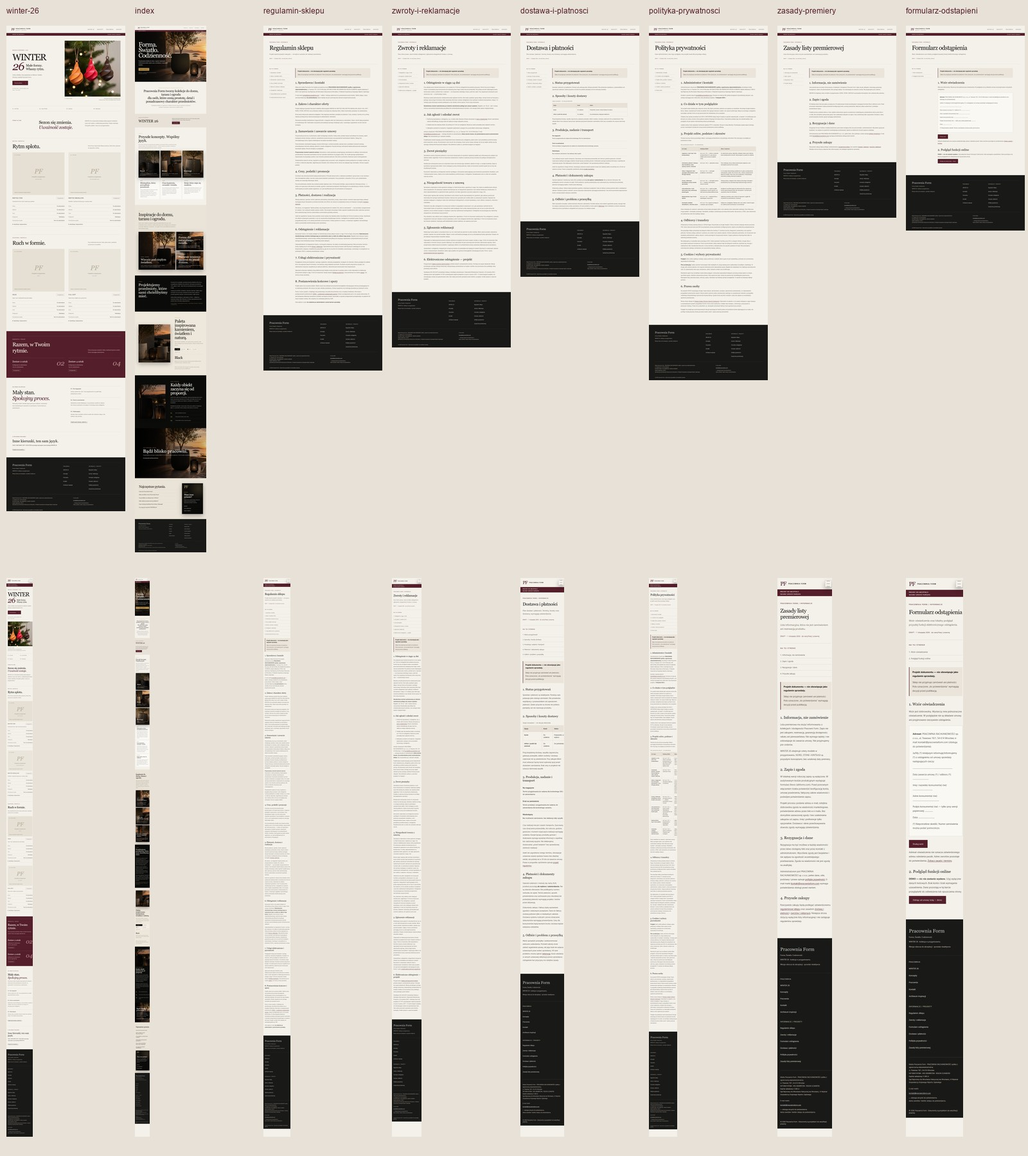
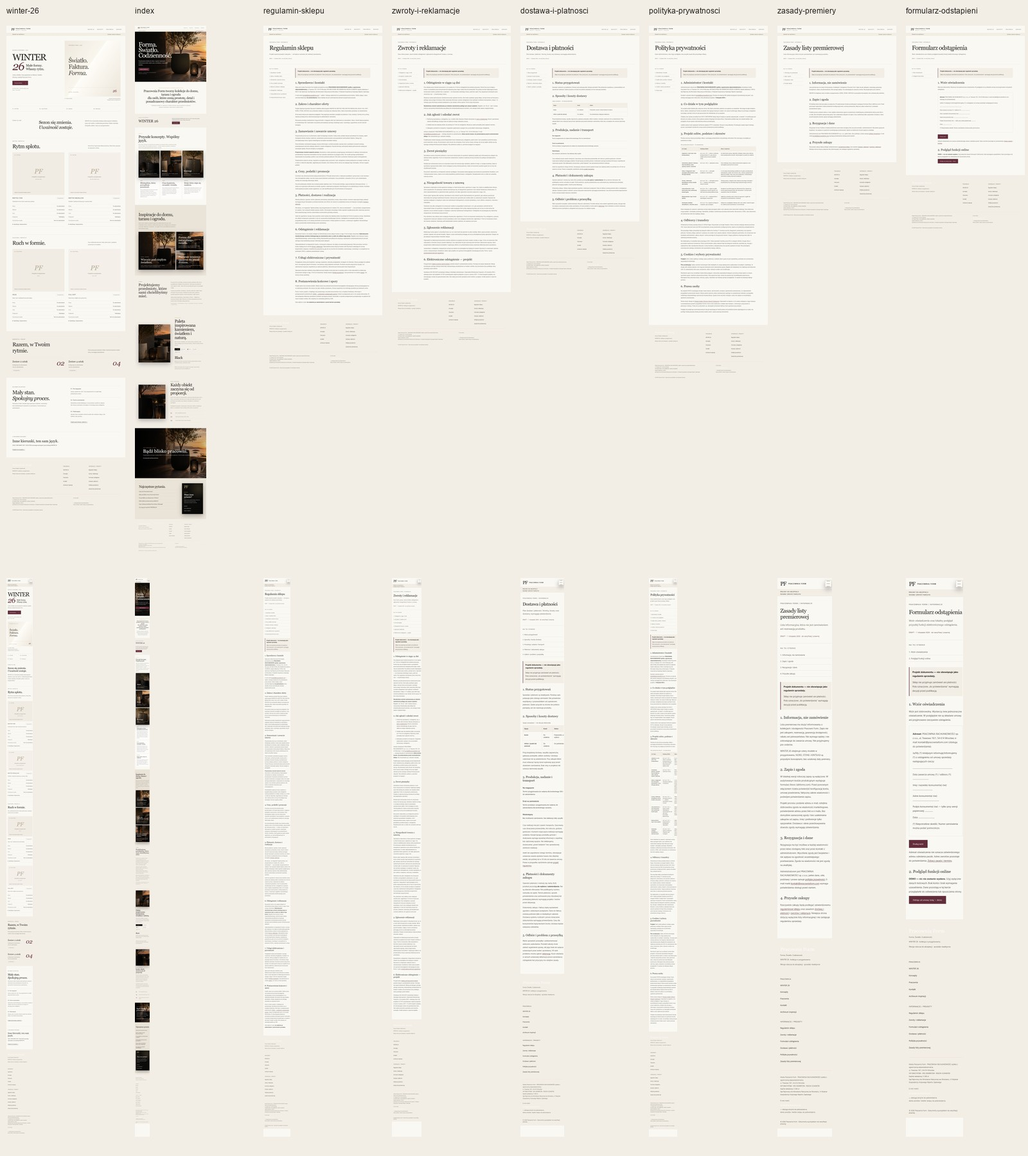
style: adopt Warm Minimal palette and neutral product-free hero

diff --git a/review.css b/review.css
@@ -1,4 +1,4 @@
-:root { --burgundy: #541e2a; --paper: #f4f1ea; --rule: #cfc8bd; }
+:root { --burgundy: #632d3b; --paper: #faf8f3; --cream: #faf8f3; --ink: #25231f; --surface: #f2eee6; --muted: #625d54; --rule: #dcd6cc; }
 [hidden] { display: none !important; }
 .skip-link { position: fixed; top: -120px; left: 20px; z-index: 200; padding: 15px 24px; background: var(--paper); color: var(--ink); }
 .skip-link:focus { top: 12px; }
@@ -9,27 +9,27 @@ body { overflow-wrap: break-word; }
 html.js .reveal { opacity: 1; transform: none; }
 .site-header { position: relative; height: 88px; color: var(--ink); background: var(--paper); border-bottom: 1px solid var(--rule); backdrop-filter: none; }
 .site-header.scrolled { height: 88px; background: var(--paper); }
-.brand-mark { color: var(--burgundy); }
+.brand-mark { color: var(--ink); }
 .brand-text small { color: #645e54; }
 .site-nav a { min-height: 44px; display: inline-flex; align-items: center; }
-.review-banner { background: var(--burgundy); color: #fffaf1; padding: 9px 5%; font-size: 10px; font-weight: 600; letter-spacing: .13em; display: flex; justify-content: space-between; gap: 12px; }
+.review-banner { background: var(--surface); color: var(--ink); box-shadow: inset 0 -1px 0 var(--rule); padding: 9px 5%; font-size: 10px; font-weight: 600; letter-spacing: .13em; display: flex; justify-content: space-between; gap: 12px; }
 .review-banner span { font-weight: 400; letter-spacing: .05em; }
 .shell { width: min(1320px, 90%); margin-inline: auto; }
-.winter-page .eyebrow, .document-page .eyebrow, .home-winter .eyebrow { color: var(--burgundy); font-size: 11px; letter-spacing: .15em; font-weight: 600; text-transform: uppercase; }
+.winter-page .eyebrow, .document-page .eyebrow, .home-winter .eyebrow { color: var(--muted); font-size: 11px; letter-spacing: .15em; font-weight: 600; text-transform: uppercase; }
 .editorial-button { display: inline-flex; justify-content: space-between; align-items: center; gap: 36px; padding: 17px 25px; border: 1px solid var(--burgundy); background: var(--burgundy); color: #fffaf1; font: 12px var(--sans); letter-spacing: .05em; cursor: pointer; min-height: 48px; }
 .editorial-button:hover { background: #39131c; }
 .secondary-button { background: transparent; color: var(--burgundy); border: 1px solid var(--burgundy); padding: 15px 22px; font: 14px var(--sans); cursor: pointer; min-height: 48px; }
 .text-link { text-decoration: underline; text-underline-offset: 5px; display: inline-block; padding-block: 12px; }
-.review-footer { padding: 64px 5% 26px; background: #191a17; color: var(--paper); display: grid; grid-template-columns: 1fr 1.25fr; gap: 36px 60px; }
+.review-footer { padding: 64px 5% 26px; background: var(--surface); color: var(--ink); display: grid; grid-template-columns: 1fr 1.25fr; gap: 36px 60px; }
 .review-footer .footer-wordmark { font: 32px var(--serif); display: block; }
-.footer-wordmark span { display: block; font: 12px var(--sans); color: #c4bfb4; margin-top: 14px; }
-.review-footer .footer-intro p { font-size: 12px; color: #c4bfb4; line-height: 1.7; }
+.footer-wordmark span { display: block; font: 12px var(--sans); color: var(--muted); margin-top: 14px; }
+.review-footer .footer-intro p { font-size: 12px; color: var(--muted); line-height: 1.7; }
 .review-footer .footer-cols { display: grid; grid-template-columns: 1fr 1.4fr; gap: 32px; margin: 0; }
-.review-footer .footer-cols h2 { font: 11px var(--sans); text-transform: uppercase; letter-spacing: .12em; margin-bottom: 18px; color: #ded6c7; }
-.review-footer .footer-cols a { display: block; padding: 8px 0; font-size: 13px; color: #d8d3c9; line-height: 1.5; }
-.company-details { grid-column: 1 / -1; padding-top: 24px; border-top: 1px solid #49483f; display: grid; grid-template-columns: 1.2fr 1fr; gap: 50px; font-size: 11px; color: #c4bfb4; line-height: 1.8; }
+.review-footer .footer-cols h2 { font: 11px var(--sans); text-transform: uppercase; letter-spacing: .12em; margin-bottom: 18px; color: var(--ink); }
+.review-footer .footer-cols a { display: block; padding: 8px 0; font-size: 13px; color: var(--ink); line-height: 1.5; }
+.company-details { grid-column: 1 / -1; padding-top: 24px; border-top: 1px solid var(--rule); display: grid; grid-template-columns: 1.2fr 1fr; gap: 50px; font-size: 11px; color: var(--muted); line-height: 1.8; }
 .company-details a { text-decoration: underline; }
-.review-footer .copyright { grid-column: 1 / -1; margin: 0; padding: 0; border: 0; font-size: 11px; color: #c4bfb4; }
+.review-footer .copyright { grid-column: 1 / -1; margin: 0; padding: 0; border: 0; font-size: 11px; color: var(--muted); }
 .document-hero { padding-block: 70px 48px; border-bottom: 1px solid var(--rule); }
 .document-hero h1 { font-size: clamp(38px, 5vw, 72px); max-width: 1050px; line-height: 1.08; margin: 22px 0; letter-spacing: -.04em; }
 .document-lead { max-width: 670px; color: #5e5b53; font-size: 17px; line-height: 1.7; }
@@ -44,13 +44,13 @@ html.js .reveal { opacity: 1; transform: none; }
 .document-content p, .document-content li { font-size: 15px; line-height: 1.85; color: #45433d; }
 .document-content li { margin-bottom: 12px; }
 .document-content a { text-decoration: underline; text-underline-offset: 3px; color: var(--burgundy); }
-.draft-note { padding: 24px 26px; border-left: 3px solid var(--burgundy); background: #eae4da; margin-bottom: 38px; font-size: 15px; line-height: 1.7; }
+.draft-note { padding: 24px 26px; border-left: 3px solid var(--burgundy); background: var(--surface); margin-bottom: 38px; font-size: 15px; line-height: 1.7; }
 .draft-note p { margin-bottom: 0; }
 .table-scroll { max-width: 100%; overflow-x: auto; }
 table { width: 100%; border-collapse: collapse; font-size: 13px; line-height: 1.6; }
 caption { text-align: left; margin-block: 12px; color: #615a50; }
 th, td { padding: 16px 12px; border: 1px solid var(--rule); text-align: left; vertical-align: top; }
-thead { background: #e8e1d7; }
+thead { background: var(--surface); }
 th { font-weight: 600; }
 .delivery-facts div { padding: 18px 0; border-bottom: 1px solid var(--rule); }
 .delivery-facts dt { font-size: 15px; font-weight: 600; }
@@ -58,15 +58,15 @@ th { font-weight: 600; }
 .withdrawal-letter { padding: 24px; border: 1px solid var(--rule); background: #faf8f2; margin-block: 24px; overflow-wrap: anywhere; }
 [data-withdrawal-demo] label { display: block; font-size: 14px; margin: 20px 0 8px; }
 [data-withdrawal-demo] input { width: 100%; max-width: 600px; border: 1px solid #938778; padding: 14px; font: 16px var(--sans); background: #fcfaf4; border-radius: 0; }
-[data-withdrawal-summary] { padding: 20px; background: #eae4da; overflow-wrap: anywhere; }
+[data-withdrawal-summary] { padding: 20px; background: var(--surface); overflow-wrap: anywhere; }
 [data-withdrawal-summary] dt { font-size: 12px; margin-top: 14px; }
 [data-withdrawal-summary] dd { margin: 5px 0 0; }
 [data-withdrawal-error] { color: #8a142f; }
 [data-withdrawal-step] button { margin: 10px 10px 0 0; }
-.home-winter { padding: 65px 5%; background: #e8e1d7; display: grid; grid-template-columns: 1fr 1fr; gap: 40px; }
+.home-winter { padding: 65px 5%; background: var(--surface); display: grid; grid-template-columns: 1fr 1fr; gap: 40px; }
 .home-winter h2 { font-size: clamp(42px, 5vw, 72px); }
 .home-winter p { line-height: 1.8; max-width: 600px; }
-.concept-notice { padding: 28px 5%; background: #e8e1d7; color: #45332f; font-size: 14px; line-height: 1.7; }
+.concept-notice { padding: 28px 5%; background: var(--surface); color: #45332f; font-size: 14px; line-height: 1.7; }
 .archive-grid { display: grid; grid-template-columns: repeat(3, minmax(0, 1fr)); gap: 30px; padding-block: 48px 80px; }
 .archive-grid img { width: 100%; height: auto; aspect-ratio: 4 / 3; object-fit: cover; }
 .archive-grid h2 { margin-top: 20px; font-size: 28px; }
@@ -120,3 +120,12 @@ html.js body.is-ready .hero-bg { animation: none; opacity: 1; transform: none; f
   .draft-note { border: 1px solid black; padding: 10px; }
   .withdrawal-letter { break-inside: avoid; }
 }
+
+/* Warm Minimal: retain the original homepage grids and photographic panels. */
+.story, .craft, .finishes { background: var(--surface); color: var(--ink); }
+.story-text, .craft-copy > p:not(.eyebrow), .craft-lines p { color: var(--muted); }
+.story .eyebrow, .craft .eyebrow, .made-in { color: var(--muted); }
+.craft-lines, .craft-lines div { border-color: var(--rule); }
+.craft-lines span { color: var(--burgundy); }
+.btn-primary { background: var(--burgundy); color: var(--paper); }
+.site-nav a::after { background: var(--burgundy); }

diff --git a/winter-26.css b/winter-26.css
@@ -1,4 +1,4 @@
-.winter-page { background: #f4f1ea; }
+.winter-page { background: var(--paper); }
 .w26-hero { display: grid; grid-template-columns: .9fr 1.1fr; gap: 6%; padding-block: 60px 64px; align-items: center; }
 .w26-hero h1 { font: clamp(70px, 7.5vw, 112px)/.9 var(--serif); letter-spacing: -.065em; margin: 28px 0; }
 .w26-hero h1 em { font-weight: 400; color: var(--burgundy); font-size: 1.25em; }
@@ -7,23 +7,30 @@
 .w26-hero .editorial-button { margin: 12px 0 20px; }
 .w26-hero-copy > .hero-caption { font-size: 10px !important; letter-spacing: .08em; line-height: 2 !important; }
 .w26-hero-art { margin: 0; }
-.w26-hero-art img { width: 100%; height: auto; aspect-ratio: 1 / 1; object-fit: cover; }
+/* A typographic paper study: no product image or invented silhouette. */
+.editorial-paper { aspect-ratio: 1 / 1; position: relative; overflow: hidden; padding: 7%; display: flex; flex-direction: column; justify-content: space-between; background: linear-gradient(125deg, #eee8dd 0%, #f9f6ee 44%, #fffdf8 44.2%, #f4f0e7 75%, #ece5d9 100%); }
+.paper-edition { font-size: clamp(8px, .75vw, 11px); letter-spacing: .16em; text-transform: uppercase; color: var(--muted); }
+.paper-words { font: clamp(38px, 5vw, 76px)/1.05 var(--serif); letter-spacing: -.045em; color: #4a463e; padding-block: 20px; }
+.paper-words em { font-weight: 400; }
+.paper-baseline { display: flex; align-items: end; justify-content: space-between; border-top: 1px solid #cfc6b7; padding-top: 16px; font-size: clamp(8px, .65vw, 10px); letter-spacing: .12em; color: var(--muted); }
+.paper-baseline > span:last-child { color: var(--burgundy); font: italic clamp(27px, 3vw, 44px)/1 var(--serif); letter-spacing: -.03em; }
 .w26-hero-art figcaption { margin-top: 15px; display: flex; justify-content: space-between; gap: 20px; font-size: 10px; line-height: 1.7; color: #655d51; }
 .w26-hero-art figcaption span { max-width: 280px; text-align: right; }
 .collection-nav { display: grid; grid-template-columns: repeat(4, 1fr); border-top: 1px solid var(--rule); border-bottom: 1px solid var(--rule); }
 .collection-nav a { padding-block: 25px; font-size: 10px; letter-spacing: .12em; }
 .w26-intro { display: grid; grid-template-columns: .65fr 1.2fr 1fr; gap: 40px; align-items: start; padding-block: 100px; }
 .w26-intro h2 { font-size: clamp(35px, 3.7vw, 54px); line-height: 1.12; letter-spacing: -.035em; }
-.w26-intro h2 em { color: var(--burgundy); }
+.w26-intro h2 em { color: var(--ink); }
 .w26-intro > p:last-child { font-size: 15px; line-height: 1.85; color: #5f594f; margin-top: 0; }
 .family { padding-bottom: 100px; }
 .family-heading { display: grid; grid-template-columns: 1fr 1fr; align-items: end; gap: 60px; border-top: 1px solid var(--rule); padding-top: 28px; margin-bottom: 36px; }
 .family-heading h2 { font-size: clamp(40px, 4.6vw, 64px); line-height: 1.15; letter-spacing: -.04em; }
 .family-heading > p { max-width: 390px; justify-self: end; font-size: 14px; line-height: 1.9; color: #605b52; margin-bottom: 3px; }
 .product-grid { display: grid; grid-template-columns: repeat(2, minmax(0, 1fr)); gap: 48px; }
-.product-photo { aspect-ratio: 1.22 / 1; padding: 24px; background: #e6dfd3; display: flex; flex-direction: column; justify-content: space-between; }
-.product-card:nth-child(2) .product-photo { background: #eae5db; }
-.photo-index, .photo-caption { font-size: 10px; letter-spacing: .09em; color: #6e6558; }
+.product-photo { aspect-ratio: 1.22 / 1; padding: 24px; background: #f0ece4; display: flex; flex-direction: column; justify-content: space-between; }
+.product-card:nth-child(2) .product-photo { background: #f4f0e9; }
+.photo-index { color: var(--burgundy); }
+.photo-index, .photo-caption { font-size: 10px; letter-spacing: .09em; color: var(--muted); }
 .photo-caption { letter-spacing: .02em; }
 .photo-placeholder { text-align: center; color: #756a5c; }
 .placeholder-mark { font: italic 80px var(--serif); color: #b8ac99; display: block; }
@@ -31,7 +38,7 @@
 .photo-placeholder small { font-size: 9px; letter-spacing: .15em; }
 .product-heading { display: flex; align-items: start; justify-content: space-between; gap: 12px; margin-top: 24px; }
 .product-heading h3 { font: 18px var(--sans); letter-spacing: .025em; }
-.status-pill { display: inline-block; font-size: 9px; letter-spacing: .04em; padding: 7px 10px; border: 1px solid #bca9a5; color: var(--burgundy); white-space: nowrap; }
+.status-pill { display: inline-block; font-size: 9px; letter-spacing: .04em; padding: 7px 10px; border: 1px solid var(--rule); color: var(--muted); white-space: nowrap; }
 .product-description { font-size: 13px; color: #635c52; line-height: 1.8; }
 .product-facts { margin: 22px 0 0; }
 .product-facts > div { display: flex; justify-content: space-between; gap: 20px; border-top: 1px solid var(--rule); padding: 13px 0; font-size: 12px; }
@@ -41,18 +48,18 @@
 .product-details summary { padding: 16px 0; cursor: pointer; font-size: 12px; }
 .product-details p { font-size: 12px; color: #5b544a; line-height: 1.8; }
 .product-details a { text-decoration: underline; }
-.sets-section { background: #541e2a; color: #f7f0e4; padding-block: 60px 75px; }
-.sets-section .family-heading { border-color: #966b72; }
-.sets-section .eyebrow, .sets-section .family-heading > p { color: #e4c7c6; }
+.sets-section { background: var(--surface); color: var(--ink); padding-block: 60px 75px; }
+.sets-section .family-heading { border-color: var(--rule); }
+.sets-section .eyebrow, .sets-section .family-heading > p { color: var(--muted); }
 .sets-grid { display: grid; grid-template-columns: 1fr 1fr; gap: 48px; margin-top: 50px; }
-.sets-grid article { border-top: 1px solid #966b72; padding-top: 28px; position: relative; }
+.sets-grid article { border-top: 1px solid var(--rule); padding-top: 28px; position: relative; }
 .sets-grid h3 { font: 28px var(--serif); }
-.set-number { float: right; font: italic 80px/.9 var(--serif); color: #b78c8d; }
-.sets-grid p { font-size: 13px; line-height: 1.9; color: #e4c7c6; }
-.sets-grid .status-pill { color: #f7f0e4; border-color: #af868c; }
+.set-number { float: right; font: italic 80px/.9 var(--serif); color: var(--burgundy); }
+.sets-grid p { font-size: 13px; line-height: 1.9; color: var(--muted); }
+.sets-grid .status-pill { color: var(--muted); border-color: var(--rule); }
 .fulfilment { display: grid; grid-template-columns: 1fr 1fr; gap: 100px; padding-block: 100px; }
 .fulfilment h2 { font-size: clamp(40px, 4.6vw, 64px); letter-spacing: -.04em; line-height: 1.12; }
-.fulfilment h2 em { color: var(--burgundy); }
+.fulfilment h2 em { color: var(--ink); }
 .fulfilment p { font-size: 14px; line-height: 1.9; color: #60584c; max-width: 420px; }
 .fulfilment-list article { border-top: 1px solid var(--rule); padding: 20px 0; }
 .fulfilment-list h3 { font: 15px var(--sans); }

diff --git a/winter-26.html b/winter-26.html
@@ -8,7 +8,7 @@
 <link rel="canonical" href="https://pracowniaform.com/winter-26.html">
 <meta property="og:type" content="website"><meta property="og:locale" content="pl_PL"><meta property="og:site_name" content="Pracownia Form">
 <meta property="og:title" content="WINTER 26 — KNITTED &amp; SCULPTURAL"><meta property="og:description" content="KNITTED STAR, KNITTED MEDALLION, HELIX i FULL SOFT. Projekt kolekcji WINTER 26; finalne warianty w przygotowaniu, sprzedaż nieaktywna."><meta property="og:url" content="https://pracowniaform.com/winter-26.html">
-<link rel="icon" href="favicon.svg" type="image/svg+xml"><meta name="theme-color" content="#541e2a">
+<link rel="icon" href="favicon.svg" type="image/svg+xml"><meta name="theme-color" content="#faf8f3">
 <link rel="stylesheet" href="styles.css"><link rel="stylesheet" href="review.css"><link rel="stylesheet" href="winter-26.css">
 </head>
 <body class="winter-page"><a class="skip-link" href="#main">Przejdź do treści</a><header class="site-header" id="top">
@@ -18,7 +18,7 @@
 <a href="index.html#kolekcje">Koncepty</a>
 <a href="index.html#pracownia">Pracownia</a>
 <a href="kontakt.html">Kontakt</a></nav>
-</header><div class="review-banner">PROJEKT DO AKCEPTACJI <span>Sprzedaż i płatności nieaktywne</span></div><main id="main"><section class="w26-hero shell" aria-labelledby="winter-title"><div class="w26-hero-copy"><p class="eyebrow">Kolekcja sezonowa / 2026</p><h1 id="winter-title">WINTER<br><em>26</em><span>Małe formy.<br>Własny rytm.</span></h1><p>Cztery obiekty. Dwa spojrzenia na fakturę i światło. Zimowy rozdział Pracowni Form.</p><a class="editorial-button" href="#knitted">Poznaj kolekcję <span aria-hidden="true">↗</span></a><p class="hero-caption">KNITTED STAR · KNITTED MEDALLION<br>HELIX · FULL SOFT</p></div><figure class="w26-hero-art"><img src="assets/winter-26-hero-editorial.webp" width="900" height="900" fetchpriority="high" alt="Archiwalna wizualizacja kierunku: spiralne formy w ciepłym świetle"><figcaption>01 / Studium światła <span>Wizualizacja archiwalna, nie fotografia oferty.<br>Widoczne formy i kolory nie określają finalnych wariantów.</span></figcaption></figure></section>
+</header><div class="review-banner">PROJEKT DO AKCEPTACJI <span>Sprzedaż i płatności nieaktywne</span></div><main id="main"><section class="w26-hero shell" aria-labelledby="winter-title"><div class="w26-hero-copy"><p class="eyebrow">Kolekcja sezonowa / 2026</p><h1 id="winter-title">WINTER<br><em>26</em><span>Małe formy.<br>Własny rytm.</span></h1><p>Cztery obiekty. Dwa spojrzenia na fakturę i światło. Zimowy rozdział Pracowni Form.</p><a class="editorial-button" href="#knitted">Poznaj kolekcję <span aria-hidden="true">↗</span></a><p class="hero-caption">KNITTED STAR · KNITTED MEDALLION<br>HELIX · FULL SOFT</p></div><figure class="w26-hero-art"><div class="editorial-paper" role="img" aria-label="Neutralna kompozycja typograficzna na jasnym tle papieru, bez przedstawienia produktu"><span class="paper-edition" aria-hidden="true">Pracownia Form / 2026</span><span class="paper-words" aria-hidden="true">Światło.<br>Faktura.<br><em>Forma.</em></span><span class="paper-baseline" aria-hidden="true"><span>KNITTED / SCULPTURAL</span><span>26</span></span></div><figcaption>01 / Studium światła <span>Neutralna kompozycja editorial.<br>Fotografie kolekcji w przygotowaniu.</span></figcaption></figure></section>
 <nav class="collection-nav shell" aria-label="Sekcje WINTER 26"><a href="#knitted">01 / KNITTED</a><a href="#sculptural">02 / SCULPTURAL</a><a href="#zestawy">03 / Zestawy</a><a href="#realizacja">04 / Realizacja</a></nav>
 <section class="w26-intro shell"><p class="eyebrow">Forma na zimę</p><h2>Sezon się zmienia.<br><em>Uważność zostaje.</em></h2><p>WINTER 26 to kameralna kolekcja dekoracyjnych obiektów. Łączy rytm splotu z rzeźbiarską geometrią. Finalne materiały, fotografie, paleta i ceny są w przygotowaniu.</p></section><section class="family shell" id="knitted" aria-labelledby="title-knitted"><div class="family-heading"><div><p class="eyebrow">KNITTED / WINTER 26</p><h2 id="title-knitted">Rytm splotu.</h2></div><p>Dwie formy inspirowane fakturą dzianiny. Detal, który zaprasza do spojrzenia z bliska.</p></div><div class="product-grid"><article class="product-card" id="knitted-star" aria-labelledby="name-knitted-star">
 <div class="product-photo"><span class="photo-index">01 / KNITTED</span><div class="photo-placeholder"><span class="placeholder-mark" aria-hidden="true">PF</span><p>Fotografia w przygotowaniu</p><small>KNITTED STAR</small></div><span class="photo-caption">Miejsce na zatwierdzone zdjęcie produktu</span></div>

diff --git a/formularz-odstapienia.html b/formularz-odstapienia.html
@@ -8,7 +8,7 @@
 <link rel="canonical" href="https://pracowniaform.com/formularz-odstapienia.html">
 <meta property="og:type" content="website"><meta property="og:locale" content="pl_PL"><meta property="og:site_name" content="Pracownia Form">
 <meta property="og:title" content="Formularz odstąpienia"><meta property="og:description" content="Wzór oświadczenia oraz lokalny podgląd przyszłej funkcji elektronicznego odstąpienia."><meta property="og:url" content="https://pracowniaform.com/formularz-odstapienia.html">
-<link rel="icon" href="favicon.svg" type="image/svg+xml"><meta name="theme-color" content="#541e2a">
+<link rel="icon" href="favicon.svg" type="image/svg+xml"><meta name="theme-color" content="#faf8f3">
 <link rel="stylesheet" href="styles.css"><link rel="stylesheet" href="review.css">
 </head>
 <body class="document-page"><a class="skip-link" href="#main">Przejdź do treści</a><header class="site-header" id="top">

diff --git a/zwroty-i-reklamacje.html b/zwroty-i-reklamacje.html
@@ -8,7 +8,7 @@
 <link rel="canonical" href="https://pracowniaform.com/zwroty-i-reklamacje.html">
 <meta property="og:type" content="website"><meta property="og:locale" content="pl_PL"><meta property="og:site_name" content="Pracownia Form">
 <meta property="og:title" content="Zwroty i reklamacje"><meta property="og:description" content="Dwa różne prawa. Jasna ścieżka odstąpienia i zgłoszenia niezgodności towaru z umową."><meta property="og:url" content="https://pracowniaform.com/zwroty-i-reklamacje.html">
-<link rel="icon" href="favicon.svg" type="image/svg+xml"><meta name="theme-color" content="#541e2a">
+<link rel="icon" href="favicon.svg" type="image/svg+xml"><meta name="theme-color" content="#faf8f3">
 <link rel="stylesheet" href="styles.css"><link rel="stylesheet" href="review.css">
 </head>
 <body class="document-page"><a class="skip-link" href="#main">Przejdź do treści</a><header class="site-header" id="top">

diff --git a/polityka-prywatnosci.html b/polityka-prywatnosci.html
@@ -8,7 +8,7 @@
 <link rel="canonical" href="https://pracowniaform.com/polityka-prywatnosci.html">
 <meta property="og:type" content="website"><meta property="og:locale" content="pl_PL"><meta property="og:site_name" content="Pracownia Form">
 <meta property="og:title" content="Polityka prywatności"><meta property="og:description" content="Dane administratora, stan tego podglądu oraz projekt zasad dla przyszłego sklepu."><meta property="og:url" content="https://pracowniaform.com/polityka-prywatnosci.html">
-<link rel="icon" href="favicon.svg" type="image/svg+xml"><meta name="theme-color" content="#541e2a">
+<link rel="icon" href="favicon.svg" type="image/svg+xml"><meta name="theme-color" content="#faf8f3">
 <link rel="stylesheet" href="styles.css"><link rel="stylesheet" href="review.css">
 </head>
 <body class="document-page"><a class="skip-link" href="#main">Przejdź do treści</a><header class="site-header" id="top">

diff --git a/dostawa-i-platnosci.html b/dostawa-i-platnosci.html
@@ -8,7 +8,7 @@
 <link rel="canonical" href="https://pracowniaform.com/dostawa-i-platnosci.html">
 <meta property="og:type" content="website"><meta property="og:locale" content="pl_PL"><meta property="og:site_name" content="Pracownia Form">
 <meta property="og:title" content="Dostawa i płatności"><meta property="og:description" content="Plan dostaw i płatności. Terminy, koszty oraz dostawcy wymagają zatwierdzenia."><meta property="og:url" content="https://pracowniaform.com/dostawa-i-platnosci.html">
-<link rel="icon" href="favicon.svg" type="image/svg+xml"><meta name="theme-color" content="#541e2a">
+<link rel="icon" href="favicon.svg" type="image/svg+xml"><meta name="theme-color" content="#faf8f3">
 <link rel="stylesheet" href="styles.css"><link rel="stylesheet" href="review.css">
 </head>
 <body class="document-page"><a class="skip-link" href="#main">Przejdź do treści</a><header class="site-header" id="top">

diff --git a/zapis-prawie-gotowy.html b/zapis-prawie-gotowy.html
@@ -8,7 +8,7 @@
 <link rel="canonical" href="https://pracowniaform.com/zapis-prawie-gotowy.html">
 <meta property="og:type" content="website"><meta property="og:locale" content="pl_PL"><meta property="og:site_name" content="Pracownia Form">
 <meta property="og:title" content="Potwierdzenie zapisu — podgląd"><meta property="og:description" content="Lokalna wersja robocza nie tworzy zapisów na listę premierową."><meta property="og:url" content="https://pracowniaform.com/zapis-prawie-gotowy.html">
-<link rel="icon" href="favicon.svg" type="image/svg+xml"><meta name="theme-color" content="#541e2a">
+<link rel="icon" href="favicon.svg" type="image/svg+xml"><meta name="theme-color" content="#faf8f3">
 <link rel="stylesheet" href="styles.css"><link rel="stylesheet" href="review.css">
 </head>
 <body class="document-page"><a class="skip-link" href="#main">Przejdź do treści</a><header class="site-header" id="top">

diff --git a/regulamin-sklepu.html b/regulamin-sklepu.html
@@ -8,7 +8,7 @@
 <link rel="canonical" href="https://pracowniaform.com/regulamin-sklepu.html">
 <meta property="og:type" content="website"><meta property="og:locale" content="pl_PL"><meta property="og:site_name" content="Pracownia Form">
 <meta property="og:title" content="Regulamin sklepu"><meta property="og:description" content="Projekt zasad przyszłych zakupów — od wyboru wariantu do realizacji zamówienia."><meta property="og:url" content="https://pracowniaform.com/regulamin-sklepu.html">
-<link rel="icon" href="favicon.svg" type="image/svg+xml"><meta name="theme-color" content="#541e2a">
+<link rel="icon" href="favicon.svg" type="image/svg+xml"><meta name="theme-color" content="#faf8f3">
 <link rel="stylesheet" href="styles.css"><link rel="stylesheet" href="review.css">
 </head>
 <body class="document-page"><a class="skip-link" href="#main">Przejdź do treści</a><header class="site-header" id="top">

diff --git a/zasady-premiery.html b/zasady-premiery.html
@@ -8,7 +8,7 @@
 <link rel="canonical" href="https://pracowniaform.com/zasady-premiery.html">
 <meta property="og:type" content="website"><meta property="og:locale" content="pl_PL"><meta property="og:site_name" content="Pracownia Form">
 <meta property="og:title" content="Zasady listy premierowej"><meta property="og:description" content="Lista informacyjna, która nie jest zamówieniem ani rezerwacją produktu."><meta property="og:url" content="https://pracowniaform.com/zasady-premiery.html">
-<link rel="icon" href="favicon.svg" type="image/svg+xml"><meta name="theme-color" content="#541e2a">
+<link rel="icon" href="favicon.svg" type="image/svg+xml"><meta name="theme-color" content="#faf8f3">
 <link rel="stylesheet" href="styles.css"><link rel="stylesheet" href="review.css">
 </head>
 <body class="document-page"><a class="skip-link" href="#main">Przejdź do treści</a><header class="site-header" id="top">

diff --git a/zapis-potwierdzony.html b/zapis-potwierdzony.html
@@ -8,7 +8,7 @@
 <link rel="canonical" href="https://pracowniaform.com/zapis-potwierdzony.html">
 <meta property="og:type" content="website"><meta property="og:locale" content="pl_PL"><meta property="og:site_name" content="Pracownia Form">
 <meta property="og:title" content="Status zapisu — podgląd"><meta property="og:description" content="Lokalna wersja robocza nie tworzy zapisów na listę premierową."><meta property="og:url" content="https://pracowniaform.com/zapis-potwierdzony.html">
-<link rel="icon" href="favicon.svg" type="image/svg+xml"><meta name="theme-color" content="#541e2a">
+<link rel="icon" href="favicon.svg" type="image/svg+xml"><meta name="theme-color" content="#faf8f3">
 <link rel="stylesheet" href="styles.css"><link rel="stylesheet" href="review.css">
 </head>
 <body class="document-page"><a class="skip-link" href="#main">Przejdź do treści</a><header class="site-header" id="top">

diff --git a/koncepty.html b/koncepty.html
@@ -8,7 +8,7 @@
 <link rel="canonical" href="https://pracowniaform.com/koncepty.html">
 <meta property="og:type" content="website"><meta property="og:locale" content="pl_PL"><meta property="og:site_name" content="Pracownia Form">
 <meta property="og:title" content="Archiwum inspiracji"><meta property="og:description" content="SOLIS, VINE WAVE CAST i SOLIS DISH — archiwalne koncepcje poza kolekcją WINTER 26."><meta property="og:url" content="https://pracowniaform.com/koncepty.html">
-<link rel="icon" href="favicon.svg" type="image/svg+xml"><meta name="theme-color" content="#541e2a">
+<link rel="icon" href="favicon.svg" type="image/svg+xml"><meta name="theme-color" content="#faf8f3">
 <link rel="stylesheet" href="styles.css"><link rel="stylesheet" href="review.css">
 </head>
 <body class="document-page"><a class="skip-link" href="#main">Przejdź do treści</a><header class="site-header" id="top">
